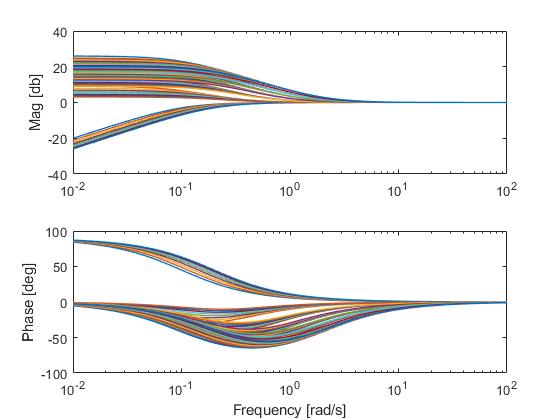
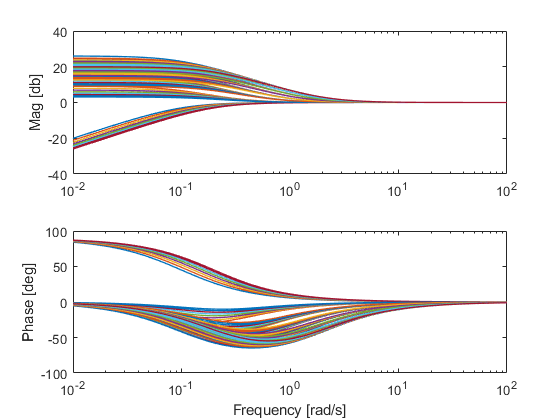
edited doc_modeling to account for delay and unstructured uncertainty

diff --git a/doc/html/doc_modeling.html b/doc/html/doc_modeling.html
@@ -6,7 +6,7 @@
    <script type="text/javascript" src="http://cdn.mathjax.org/mathjax/latest/MathJax.js?config=TeX-AMS-MML_HTMLorMML"></script><!--
 This HTML was auto-generated from MATLAB code.
 To make changes, update the MATLAB code and republish this document.
-      --><title>Modeling of uncertain plants</title><meta name="generator" content="MATLAB 9.3"><link rel="schema.DC" href="http://purl.org/dc/elements/1.1/"><meta name="DC.date" content="2020-04-20"><meta name="DC.source" content="doc_modeling.m"><style type="text/css">
+      --><title>Modeling of uncertain plants</title><meta name="generator" content="MATLAB 9.3"><link rel="schema.DC" href="http://purl.org/dc/elements/1.1/"><meta name="DC.date" content="2020-09-15"><meta name="DC.source" content="doc_modeling.m"><style type="text/css">
 html,body,div,span,applet,object,iframe,h1,h2,h3,h4,h5,h6,p,blockquote,pre,a,abbr,acronym,address,big,cite,code,del,dfn,em,font,img,ins,kbd,q,s,samp,small,strike,strong,sub,sup,tt,var,b,u,i,center,dl,dt,dd,ol,ul,li,fieldset,form,label,legend,table,caption,tbody,tfoot,thead,tr,th,td{margin:0;padding:0;border:0;outline:0;font-size:100%;vertical-align:baseline;background:transparent}body{line-height:1}ol,ul{list-style:none}blockquote,q{quotes:none}blockquote:before,blockquote:after,q:before,q:after{content:'';content:none}:focus{outine:0}ins{text-decoration:none}del{text-decoration:line-through}table{border-collapse:collapse;border-spacing:0}
 
 html { min-height:100%; margin-bottom:1px; }
@@ -66,7 +66,7 @@ table td { padding:7px 5px; text-align:left; vertical-align:top; border:1px soli
 
 
 
-  </style></head><body><div class="content"><h1>Modeling of uncertain plants</h1><!--introduction--><!--/introduction--><h2>Contents</h2><div><ul><li><a href="#1">Overview</a></li><li><a href="#4">Modeling uncertain parameters</a></li><li><a href="#11">Creating uncertain arithmetic expressions</a></li><li><a href="#15">Creating an uncertain polynomial</a></li><li><a href="#18">Creating the plant</a></li></ul></div><h2 id="1">Overview</h2><p>The first stage in QFT design is to define the uncertain plant. <b>Open Qsyn</b> facilitates plant modeling using these classes:</p><div><ul><li><a href="matlab:doc('qpar')">qpar</a> describes a single uncertain parameter</li><li><a href="matlab:doc('qexpression')">qexpression</a> describes an aritmatic expression composed of one or more qpar elements</li><li><a href="matlab:doc('qpoly')">qpoly</a>  describes an uncertain polynom --composed of qpars and qexpressions</li><li><a href="matlab:doc('qplant')">qplant</a> describes an uncertain plant</li></ul></div><p>Note that this page describes plant modeling as a set of LTI tranfer functions. <b>Open Qsyn</b> also allows for "black box" plants and for plants described as measured frequecy response data. See <a href="matlab:web('ex_blackBox.html')">Black Box Example</a> and <a href="matlab:web('ex_qmeas.html')">Data Based Design Example</a>, respectively.</p><p>In addition, plant that are given in Real Factored Form can also (should!) be consturcted differently, in a way that expolites their unique structure, see <a href="matlab:web('ex_rff.html')">RFF Example</a>.</p><h2 id="4">Modeling uncertain parameters</h2><p>Uncertain parameters are modeled using <a href="matlab:doc('qpar')">qpar</a> objects. a <a href="matlab:doc('qpar')">qpar</a> object is constructed as follows</p><pre class="language-matlab">a = qpar(name,nominal_val,lower_bound,upper_bound,cases)
+  </style></head><body><div class="content"><h1>Modeling of uncertain plants</h1><!--introduction--><!--/introduction--><h2>Contents</h2><div><ul><li><a href="#1">Overview</a></li><li><a href="#4">Modeling uncertain parameters</a></li><li><a href="#11">Creating uncertain arithmetic expressions</a></li><li><a href="#15">Creating an uncertain polynomial</a></li><li><a href="#18">Creating the plant</a></li><li><a href="#21">Adding delay and unstructured uncertainty</a></li></ul></div><h2 id="1">Overview</h2><p>The first stage in QFT design is to define the uncertain plant. <b>Open Qsyn</b> facilitates plant modeling using these classes:</p><div><ul><li><a href="matlab:doc('qpar')">qpar</a> describes a single uncertain parameter</li><li><a href="matlab:doc('qexpression')">qexpression</a> describes an aritmatic expression composed of one or more qpar elements</li><li><a href="matlab:doc('qpoly')">qpoly</a>  describes an uncertain polynom --composed of qpars and qexpressions</li><li><a href="matlab:doc('qplant')">qplant</a> describes an uncertain plant</li></ul></div><p>Note that this page describes plant modeling as a set of LTI tranfer functions. <b>Open Qsyn</b> also allows for "black box" plants and for plants described as measured frequecy response data. See <a href="matlab:web('ex_blackBox.html')">Black Box Example</a> and <a href="matlab:web('ex_qmeas.html')">Data Based Design Example</a>, respectively.</p><p>In addition, plants that are given in Real Factored Form can also (should!) be consturcted differently, in a way that expolites their unique structure, see <a href="matlab:web('ex_rff.html')">RFF Example</a>.</p><h2 id="4">Modeling uncertain parameters</h2><p>Uncertain parameters are modeled using <a href="matlab:doc('qpar')">qpar</a> objects. a <a href="matlab:doc('qpar')">qpar</a> object is constructed as follows</p><pre class="language-matlab">a = qpar(name,nominal_val,lower_bound,upper_bound,cases)
 </pre><p>where name is a string; nominal_val, lower_bound, upper_bound are scalar numbers describing the nominl value, lower bound, and upper bound, respectively; cases is an optional input agrument which specifies the number of uncertain cases, i.e. the number of grid points.</p><p><b>Exmaple</b>: constarct an uncertain parameter <span class="MathJax_Preview"><img src="doc_modeling_eq02724542671846692596.png" alt="$a \in [0,2]$"></span><script type="math/tex">a \in [0,2]</script> with nominal value 1.</p><pre class="codeinput">a = qpar(<span class="string">'A'</span>,1,0,2)
 </pre><pre class="codeoutput">3 cases are selected as default
 
@@ -104,13 +104,13 @@ pargrid = grid(parArray)
 </pre><pre class="codeoutput">
 asmap =
 
-    1.6338    0.3789    0.2474    1.6420    1.2758
+    1.5025    0.5102    1.0119    1.3982    1.7818
 
 
 absamp =
 
-    0.0322    1.7919    1.0308    1.0890    1.2129
-    0.1760    0.1855    0.1383    0.1085    0.1734
+    1.9186    1.0944    0.2772    0.2986    0.5150
+    0.1841    0.1254    0.1814    0.1244    0.1929
 
 
 pargrid =
@@ -237,14 +237,15 @@ P =
          pars: [2&times;1 qpar]
      unstruct: []
        uncint: []
-         info: 'generated from [num,den] data on: 20-Apr-2020 00:38:30'
+         info: 'generated from [num,den] data on: 15-Sep-2020 11:56:07'
     templates: [0&times;0 qtpl]
       nominal: [0&times;0 qfr]
         delay: []
 
 </pre><p>The plant <tt>P</tt> is a <tt>qplant</tt> objects which includes the num,den qpoly object as properties, as well as a <tt>pars</tt> property which stores the qpar array of qpar objects in both qpolys.</p><p>A plant object allows for time as well a frequency domain simulations with the methods such as <tt>step</tt>, <tt>niccases</tt>, and <tt>bodcases</tt> (stands for Nichols-cases and Bode-cases, respectively). For example, a Bode plot of a uniform grid of 8 points for each parametr is done by</p><pre class="codeinput">pargrid=grid(P.pars,8);
 bodcases(P,pargrid)
-</pre><img vspace="5" hspace="5" src="doc_modeling_01.png" alt=""> <p>This is the time to move forward to <a href="matlab:web('doc_ctpl.html')">Step 2: Template Computation</a></p><p class="footer"><br><a href="http://www.mathworks.com/products/matlab/">Published with MATLAB&reg; R2017b</a><br></p></div><!--
+</pre><img vspace="5" hspace="5" src="doc_modeling_01.png" alt=""> <h2 id="21">Adding delay and unstructured uncertainty</h2><p>In addition to the numerator and denominator polynominals, a <tt>qplant</tt> can also include</p><div><ul><li><b>unstructured uncertainty</b> is added to an existing <tt>qplant</tt> using the <tt>aunstruc</tt>   command. For more details see <a href="matlab:web('ex_unsunc.html')">full exmaple</a>.</li><li><b>known/uncertain delay</b> is added to an existing <tt>qplant</tt> using the <tt>adelay</tt> command,   for exmaple</li></ul></div><pre>       h = qpar('h',0,0,0.1,3);
+       adelay(P,h)</pre><p>This is the time to move forward to <a href="matlab:web('doc_ctpl.html')">Step 2: Template Computation</a></p><p class="footer"><br><a href="http://www.mathworks.com/products/matlab/">Published with MATLAB&reg; R2017b</a><br></p></div><!--
 ##### SOURCE BEGIN #####
 %% Modeling of uncertain plants
 %% Overview 
@@ -264,7 +265,7 @@ bodcases(P,pargrid)
 % <matlab:web('ex_qmeas.html') Data Based Design Example>, respectively. 
 
 %%
-% In addition, plant that are given in Real Factored Form can also (should!) be 
+% In addition, plants that are given in Real Factored Form can also (should!) be 
 % consturcted differently, in a way that expolites their unique structure,
 % see <matlab:web('ex_rff.html') RFF Example>.
 
@@ -387,6 +388,19 @@ P = qplant(num,den)
 % a uniform grid of 8 points for each parametr is done by
 pargrid=grid(P.pars,8);
 bodcases(P,pargrid)
+
+%% Adding delay and unstructured uncertainty
+% In addition to the numerator and denominator polynominals, a |qplant| can
+% also include 
+%
+% * *unstructured uncertainty* is added to an existing |qplant| using the |aunstruc| 
+%   command. For more details see <matlab:web('ex_unsunc.html') full exmaple>.
+% * *known/uncertain delay* is added to an existing |qplant| using the |adelay| command, 
+%   for exmaple 
+% 
+%         h = qpar('h',0,0,0.1,3);
+%         adelay(P,h)
+%
 
 %%
 % This is the time to move forward to 

diff --git a/doc/doc_modeling.m b/doc/doc_modeling.m
@@ -140,6 +140,19 @@ P = qplant(num,den)
 pargrid=grid(P.pars,8);
 bodcases(P,pargrid)
 
+%% Adding delay and unstructured uncertainty
+% In addition to the numerator and denominator polynominals, a |qplant| can
+% also include 
+%
+% * *unstructured uncertainty* is added to an existing |qplant| using the |aunstruc| 
+%   command. For more details see <matlab:web('ex_unsunc.html') full exmaple>.
+% * *known/uncertain delay* is added to an existing |qplant| using the |adelay| command, 
+%   for exmaple 
+% 
+%         h = qpar('h',0,0,0.1,3);
+%         adelay(P,h)
+%
+
 %%
 % This is the time to move forward to 
 % <matlab:web('doc_ctpl.html') Step 2: Template Computation>  
